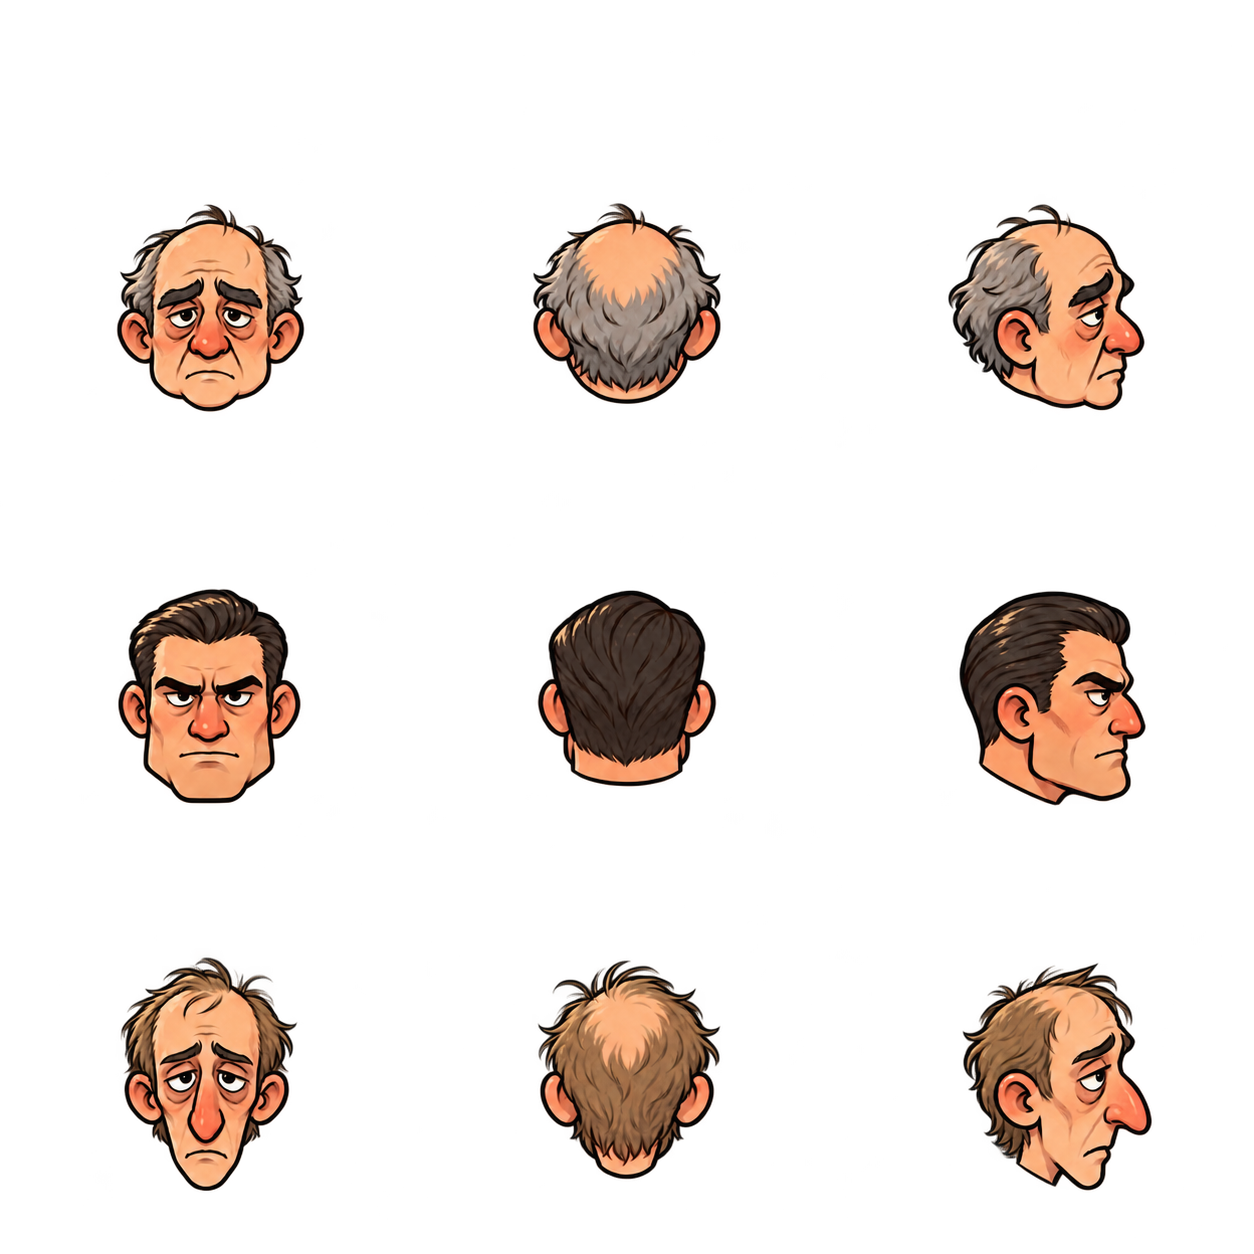
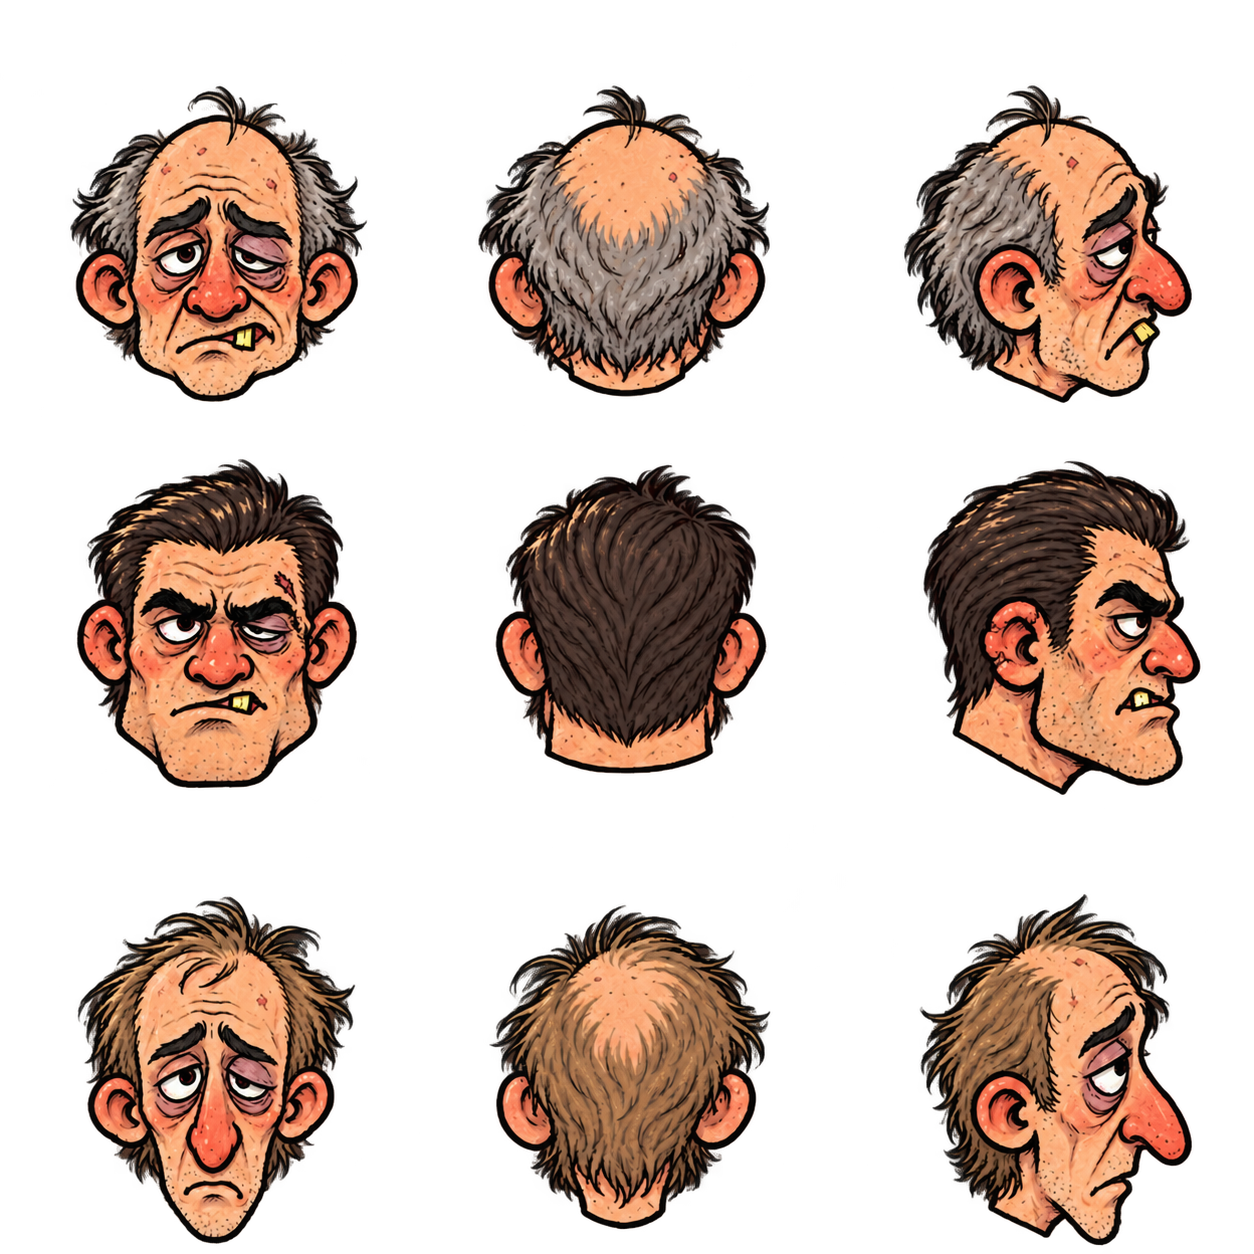
Gjør ansiktene grovere og legg til to spillerfigurer

diff --git a/log.md b/log.md
@@ -234,3 +234,8 @@ Alle tidspunkt er UTC.
 - HUD: apparatet vises ved siden av lomma med ladestreker og tast V, lommerusket med gullring først i gjenstandsraden. På berøringsskjerm dukker Aktiv-knappen opp i klyngen når pasienten har et apparat. Journalens kuriositetsfane viser begge.
 - Begge lagres med løpet. README har fått V i kontrollene.
 - Test: defibrillatoren skader og tømmer ladningen, ett streik per ryddet rom, bytte gir glass med det gamle, frosken redder fra døden, lommerusk byttes, og alt overlever lagring. Ingen konsollfeil.
+
+## 2026-09-24 17:50 Grovere ansikter og to spillerfigurer
+- Tom ønsket at ansiktene skulle bli mer morbide, stygge og stiliserte. Brukte referansene som retning for asymmetri, ujevne tenner, øyeposer og røffe blekkstreker uten å kopiere figurene i dem.
+- Tegnet to nye voksenvarianter av spilleren, kvinne og mann, hver som seks figurdeler i samme mal som standardpasienten. Den mannlige varianten er også tatt i bruk som nytt standardark, og de ni personalhodene er tegnet om i samme grovere stil. Ikoner og utstyr er ikke endret.
+- Prøvde klipping, bildebehandling og bygging i en egen kopi. Standardfiguren gir seks behandlede deler, personalarket gir ni deler, og spillet bygges med 93 bilder uten feil. De to ekstra variantarkene ligger i gpt-grafikk/varianter/ til Claude registrerer dem i manifestet og lager figurvalg.

diff --git a/memory.md b/memory.md
@@ -49,6 +49,7 @@ Sanntids action-roguelite i et norsk sanatorium fra 1920-tallet. Lovecraft- og H
 - De 13 første evnekortene fra ChatGPT ligger i gpt-grafikk/. kort_due.png bruker den første, mer detaljerte duen som Tom valgte.
 - ChatGPT har også lagt inn fem ark med alle 40 kuriositeter, ett ark med de åtte pillene og glass_tomt.png. Bildebehandlingen klipper arkene til enkeltbilder ved bygging.
 - Spillerfiguren ligger i gpt-grafikk/figur_pasient.png som seks deler: hode og kropp sett forfra, bakfra og fra høyre side.
+- Tom ønsker grovere og styggere ansikter enn i de første arkene, med asymmetri, skjevheter, ujevne tenner og røffe blekkstreker. Ikoner og utstyr skal beholde stilen sin. Standardpasienten og personalhodene er tegnet om. Kvinne og mann ligger som egne figurark i gpt-grafikk/varianter/ til Claude registrerer dem og lager figurvalg.
 - Tre personalark i gpt-grafikk/ gir ni hoder, ni hodeplagg og ni uniformsdeler etter klipping. De vises først i spillet når oppskriftssystemet tar i bruk assets/deler/.
 - Ett ark med fire sko og fem småobjekter gir ni bilder som bygges inn i spillfila.
 - Et nytt ark med de ni siste plukk- og effektbildene gjør hele denne delen av den opprinnelige kunstlista komplett.

diff --git a/todo.md b/todo.md
@@ -24,6 +24,8 @@
 - [ ] Utseendetest av 3D-verden med 2D-figurer (ett rom, vegglamper, måneskygger, bloom), hvis Tom vil.
 - [x] Bilder av 40 kuriositeter, åtte piller og et tomt preparatglass fra ChatGPT i gpt-grafikk/.
 - [x] Spillerens figurark fra ChatGPT i gpt-grafikk/.
+- [x] To nye spillerfigurvarianter, kvinne og mann, med grovere ansikter. Standardfiguren og personalansiktene er også tegnet om.
+- [ ] Claude: Registrere spillerfigurvariantene fra gpt-grafikk/varianter/ i manifestet og legge inn valg i spillet.
 - [x] Tre delark fra ChatGPT for personale: hoder, hatter og uniformer.
 - [x] Fire sko og fem småobjekter fra ChatGPT: hjerte, Morbidiumdråpe, gulltann, due og eterflaske.
 - [x] De siste ni bildene for plukk og effekter fra ChatGPT: kamfer, levertran, luktesalt, tre støvpuff, skyggehånd, stempelmerke og treffstjerne.

diff --git a/DESIGN_BRIEF.md b/DESIGN_BRIEF.md
@@ -19,6 +19,10 @@ Style: hand-drawn cartoon game art in the style of Conan Chop Chop mixed with Ca
 Technical: PNG with a TRANSPARENT background. No text unless asked, no ground shadows, no frames, no background scenery.
 ```
 
+## Ansikter
+
+Tom ønsker at ansiktene er grovere, styggere og mer morbide enn de første figurarkene. Tegn skjeve silhuetter, ujevne øyne og tenner, tydelige poser under øynene, skranglete hår og røffe blekkstreker med litt skravering. Figurene kan være groteske og komiske, men må fortsatt være lette å kjenne igjen fra alle vinkler. Unngå glatte hudoverganger, symmetrisk portrettpreg og blankt, polert uttrykk. Ikoner og utstyr beholder stilen i blokken over.
+
 ## Faste regler for alle bilder
 
 1. Gjennomsiktig bakgrunn. Går ikke det, bruk helt hvit bakgrunn.

diff --git a/gpt-grafikk/LESMEG.md b/gpt-grafikk/LESMEG.md
@@ -23,6 +23,8 @@ Eksempel på et «ni ting»-ark med de ni første kuriositetene:
 
 Et bilde med et navn som ikke finnes i manifestet, blir hoppet over med en melding. Det ødelegger ikke bygget.
 
+Spillerfigurene i `varianter/` er ferdige figurark, men er ennå ikke registrert i manifestet. De ligger i undermappa så bildebehandlingen ikke rapporterer ukjente filnavn ved hver publisering. Claude kan flytte dem opp hit når figurvalget og nøklene er på plass.
+
 ## Krav til bildene
 - PNG, helst med gjennomsiktig bakgrunn. Hvit eller ensfarget bakgrunn går også, den fjernes fra kantene og innover.
 - Ingen skygge på bakken, ingen tekst, ingen ramme, ingen bakgrunn.
